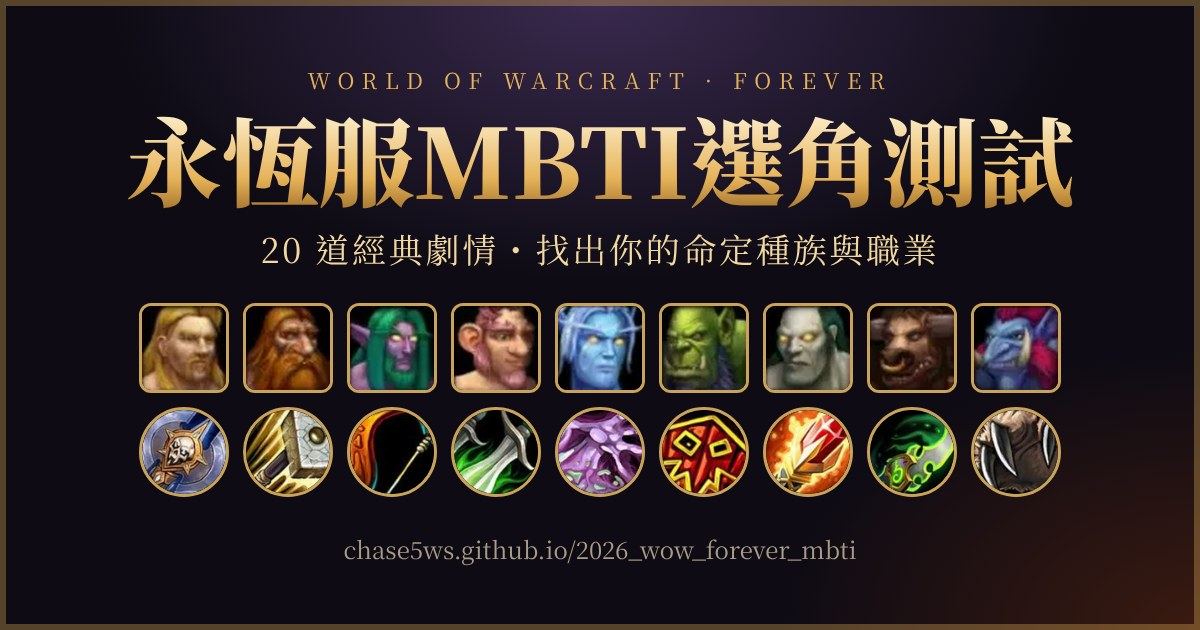
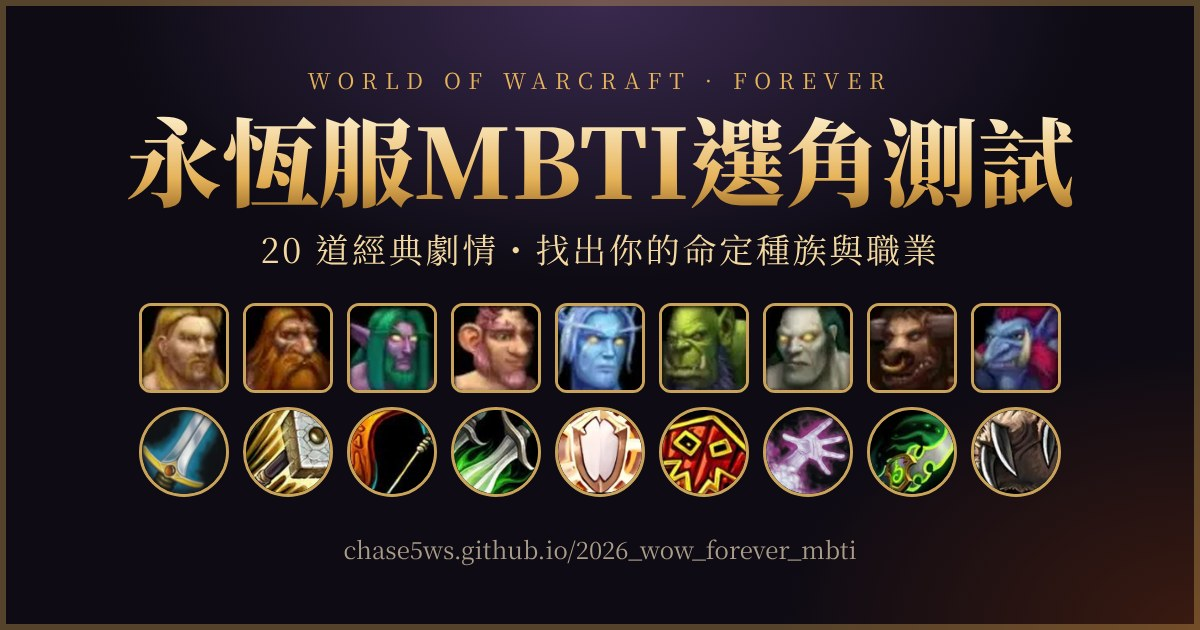
1

Changed region(s): [[0.4625, 0.6333, 0.555, 0.7841], [0.6167, 0.6333, 0.7092, 0.7841], [0.0925, 0.6333, 0.185, 0.7841]]

diff --git a/js/app.js b/js/app.js
@@ -25,6 +25,7 @@
     }
     // 第一題彩蛋：撿大便 → 直接進入 IMSB 隱藏人格
     if (q.id === 1) opts.push({ text: "都不要，我先蹲下來撿地上的大便 💩", special: "poop" });
+    if (PLAYER_OPTIONS[q.id]) opts.push({ ...PLAYER_OPTIONS[q.id], player: true });
     q.opts = opts;
   });
 
@@ -91,7 +92,7 @@
       const b = document.createElement("button");
       b.className = "opt" + (answers[idx] === i ? " chosen" : "");
       b.className += o.special ? " opt-poop" : "";
-      b.innerHTML = `<span class="key">${"ABCDE"[i]}</span><span>${o.text}</span>`;
+      b.innerHTML = `<span class="key">${"ABCDE"[i]}</span><span>${o.text}${o.player ? `<em class="opt-tag">玩家建議</em>` : ""}</span>`;
       b.addEventListener("click", () => choose(i, b));
       box.appendChild(b);
     });
@@ -129,8 +130,11 @@
     answers.forEach((ai, qi) => {
       if (ai === null) return;
       const o = QUESTIONS[qi].opts[ai];
-      pts[o.pole] = (pts[o.pole] || 0) + o.w;
-      cnt[o.pole] = (cnt[o.pole] || 0) + 1;
+      const poles = o.poles || (o.pole ? { [o.pole]: o.w } : {});
+      Object.entries(poles).forEach(([pole, w]) => {
+        pts[pole] = (pts[pole] || 0) + w;
+        cnt[pole] = (cnt[pole] || 0) + 1;
+      });
     });
     const pct = {};
     PAIRS.forEach(([a, b]) => {
@@ -638,7 +642,7 @@
     ctx.fillStyle = "#00000066";
     ctx.beginPath(); ctx.arc(xR + S / 2, y0 + S / 2, S / 2, 0, Math.PI * 2); ctx.fill();
     try {
-      const icon = await loadImg(`assets/classes/${ICONS.clsKey(best.cls.name)}.png`);
+      const icon = await loadImg(`assets/classes/${ICONS.clsKey(best.cls.name)}.png?v=3`);
       ctx.save(); ctx.beginPath(); ctx.arc(xR + S / 2, y0 + S / 2, S / 2 - 4, 0, Math.PI * 2); ctx.clip();
       ctx.drawImage(icon, xR + 4, y0 + 4, S - 8, S - 8); ctx.restore();
     } catch (e) {
@@ -781,6 +785,11 @@
   const heroImg = document.querySelector("#introBanner img");
   if (heroImg) heroImg.addEventListener("error", () => { heroImg.outerHTML = SCENES.render("mountain"); });
   $("startBtn").addEventListener("click", reset);
+  $("homeBtn").addEventListener("click", () => {
+    history.replaceState(null, "", location.pathname);
+    document.querySelectorAll(".modal.open").forEach((m) => m.classList.remove("open"));
+    show("intro");
+  });
   $("retryBtn").addEventListener("click", reset);
   $("galleryBtn").addEventListener("click", renderGallery);
   $("galleryBtn2").addEventListener("click", renderGallery);

diff --git a/index.html b/index.html
@@ -63,10 +63,13 @@
   <link rel="preconnect" href="https://fonts.googleapis.com">
   <link rel="preconnect" href="https://fonts.gstatic.com" crossorigin>
   <link href="https://fonts.googleapis.com/css2?family=Cinzel:wght@600;800&family=Noto+Serif+TC:wght@400;600;900&display=swap" rel="stylesheet">
-  <link rel="stylesheet" href="css/style.css?v=20261105h">
+  <link rel="stylesheet" href="css/style.css?v=20261105k">
 </head>
 <body>
-  <button class="feedback-btn" id="feedbackBtn" aria-label="回報問題或建議">💬 回報</button>
+  <nav class="top-actions" aria-label="快捷選單">
+    <button class="top-btn" id="homeBtn" aria-label="回首頁">🏠 首頁</button>
+    <button class="top-btn feedback-btn" id="feedbackBtn" aria-label="回報問題或建議">💬 回報</button>
+  </nav>
 
   <main id="app">
 
@@ -246,13 +249,13 @@
     </div>
     <p class="disclaimer">© 2026 Chase・永恆服MBTI選角測試<br>僅供娛樂，並非科學人格測驗。非官方粉絲作品，與 Blizzard Entertainment 無關。魔獸世界及相關名稱為 Blizzard Entertainment, Inc. 之商標。種族頭像與職業圖示取自 Battle.net 遊戲畫面，版權屬 Blizzard Entertainment；場景插畫為原創繪製。本站不以營利為目的。</p>
   </footer>
-  <script src="js/data.js?v=20261105h"></script>
-  <script src="js/results.js?v=20261105h"></script>
-  <script src="js/scenes.js?v=20261105h"></script>
-  <script src="js/icons.js?v=20261105h"></script>
-  <script src="js/imsb.js?v=20261105h"></script>
-  <script src="js/app.js?v=20261105h"></script>
-  <script src="js/stats.js?v=20261105h"></script>
-  <script src="js/feedback.js?v=20261105h"></script>
+  <script src="js/data.js?v=20261105k"></script>
+  <script src="js/results.js?v=20261105k"></script>
+  <script src="js/scenes.js?v=20261105k"></script>
+  <script src="js/icons.js?v=20261105k"></script>
+  <script src="js/imsb.js?v=20261105k"></script>
+  <script src="js/app.js?v=20261105k"></script>
+  <script src="js/stats.js?v=20261105k"></script>
+  <script src="js/feedback.js?v=20261105k"></script>
 </body>
 </html>

diff --git a/css/style.css b/css/style.css
@@ -496,3 +496,20 @@ img.author-avatar { width: 56px; height: 56px; padding: 0; object-fit: cover; ba
 .fb-done-icon { font-size: 48px; }
 .fb-done p { color: var(--muted); }
 .fb-acc { grid-template-columns: repeat(3, 1fr); }
+.opt-tag { font-style: normal; font-size: 11px; margin-left: 8px; padding: 1px 6px; border-radius: 4px; color: var(--gold-soft); border: 1px solid #e6b35a66; white-space: nowrap; vertical-align: 1px; }
+
+/* ---------- 右上角快捷按鈕 ---------- */
+.top-actions { position: fixed; top: 12px; right: 12px; z-index: 40; display: flex; gap: 8px; }
+.top-actions .feedback-btn { position: static; }
+.top-btn {
+  padding: 7px 12px; border-radius: 99px; cursor: pointer;
+  font: 600 13px var(--serif); color: var(--gold-soft);
+  background: #17121fe6; border: 1px solid #e6b35a88; box-shadow: 0 4px 16px #0008; backdrop-filter: blur(4px);
+}
+.top-btn:hover { background: #2a1f35; border-color: var(--gold); }
+.progress-top { padding-right: 168px; }
+@media (max-width: 420px) {
+  .top-btn { padding: 6px 9px; font-size: 12px; }
+  .progress-top { padding-right: 150px; }
+  .progress-top .dim-tag { display: none; }
+}

diff --git a/js/data.js b/js/data.js
@@ -249,3 +249,10 @@ const EXTRA_OPTIONS = {
   19: ["問問他新公會的進度和制度，給點實際建議", "祝福他，但約好以後還要一起打副本"],
   20: ["至少看一下首領的技能介紹", "跟著團長指揮走，他喊躲就躲"]
 };
+
+// 玩家建議新增的 E 選項（可同時影響多個面向，例如 { F: 1, I: 1 }）
+const PLAYER_OPTIONS = {
+  7:  { text: "私下跟那位朋友討論，要不要乾脆一起退團", poles: { F: 2 } },
+  11: { text: "沉默，什麼都不說，默默跑屍回去", poles: { F: 1, I: 1 } },
+  15: { text: "想太多了，單純是 ABZ（暴雪）想搞職業平衡的手段", poles: { T: 1, S: 1 } }
+};

diff --git a/js/icons.js b/js/icons.js
@@ -45,7 +45,7 @@ const ICONS = (() => {
     clsSvg: (name) => svg(cls[name] || ""),
     cls: (name) =>
       clsKey[name]
-        ? `<img class="portrait class-img" src="assets/classes/${clsKey[name]}.png" alt="${name}" loading="lazy" onerror="this.outerHTML=ICONS.clsSvg('${name}')">`
+        ? `<img class="portrait class-img" src="assets/classes/${clsKey[name]}.png?v=3" alt="${name}" loading="lazy" onerror="this.outerHTML=ICONS.clsSvg('${name}')">`
         : svg(cls[name] || ""),
     raceSvg: (name) => svg(race[name] || ""),
     race: (name) =>
